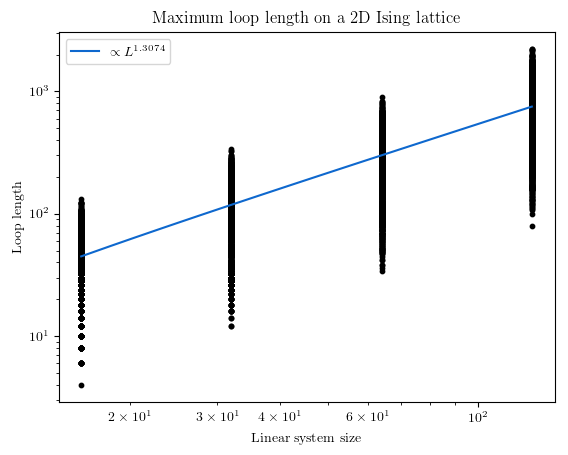
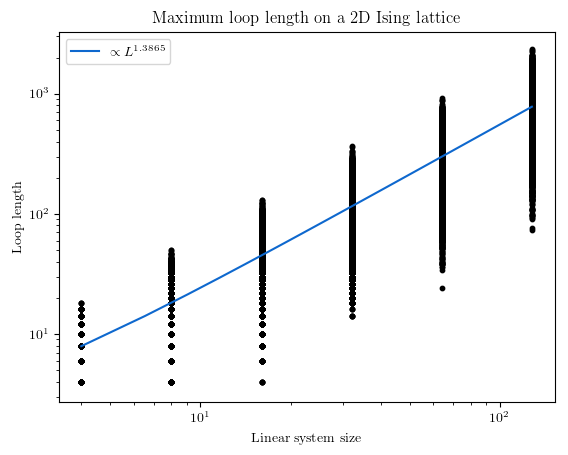
Added plot_length_distribution

diff --git a/cpp/pyplot/plot_length_distribution.py b/cpp/pyplot/plot_length_distribution.py
@@ -1,0 +1,118 @@
+'''
+Brief:               Plot length distribution
+
+File name:           plot_sizes.py
+Author:              Simon Rydell
+Date created:        Aug 30, 2018
+Python Version:      3.7
+'''
+
+import re
+import numpy as np
+import matplotlib.pyplot as plt
+from matplotlib import rc
+
+rc('font', **{'family': 'serif', 'serif': ['DejaVu Sans']})
+rc('text', usetex=True)
+
+def process_file(filename):
+    """Go through filename and split it into arrays
+       Assumes that the file is organized as:
+
+       L=<system_linear_size>:
+       <worm_size0> <worm_size1> ...
+       ...
+
+    :filename: String - Valid path to a file containing the abow
+    :returns: dict - {<system_linear_size>:
+                      [<worm_size0>, <worm_size1>, ...], ...}
+    """
+    out_dict = {}
+    with open(filename) as data_file:
+        # Keep track of the system size we are on
+        current_system_size = 0
+        for line in data_file.readlines():
+            # Check if line is describing system size or box sizes
+
+            # Check system size
+            # Match 'L=<one or more digits>:'
+            system_size_match = re.match(r"L=(\d+):", line)
+            # If it matched
+            if system_size_match:
+                system_linear_size = float(system_size_match.group(1))
+                if system_linear_size not in out_dict:
+                    # Create a new array for this system size
+                    out_dict[system_linear_size] = []
+
+                current_system_size = system_linear_size
+                # No need to process further, we found a match
+                continue
+
+            # Check if there are loop sizes
+            # At least one loop size
+            loop_size_match = re.match(r"(\d+)", line)
+            if loop_size_match:
+                loops = [float(l) for l in line.split()]
+                # Save the data under the current system size
+                for l in loops:
+                    out_dict[current_system_size].append(l)
+    return out_dict
+
+def clean_processed_data(data_dict, size_of_interest, exclude_first):
+    """Modify data_dict to remove the data points where
+       <system_linear_size> != size_of_interest
+       <worm_length> < exclude_first
+
+    :data_dict: dict - {<system_linear_size>:
+                       [<worm_length0>, <worm_length0>, ...], ...}
+    :size_of_interest: Int - Remove every system_linear_size except this one
+    :returns: None
+    """
+    sizes_to_remove = [size for size in data_dict if size != size_of_interest]
+    for size in sizes_to_remove:
+        data_dict.pop(size)
+
+    data_dict[size_of_interest] = [wl for wl in data_dict[size_of_interest] if wl > exclude_first]
+
+def plot_setup():
+    """Set axis labels and such
+    :returns: TODO
+    """
+    plt.xlabel("Loop size")
+    plt.ylabel("Counts")
+    plt.title(rf"Worm distribution for ${128}^2$ Ising lattice")
+
+def plot_histogram(data_dict, bin_size=16):
+    """Plot histogram over worm distribution
+
+    :data_dict: dict
+    :bin_size: int
+    :returns: None
+    """
+    for system_linear_size in data_dict:
+        bins = []
+        for i in range(0, int(max(data_dict[system_linear_size])), bin_size):
+            bins.append(i)
+        plt.hist(data_dict[system_linear_size], log=True, bins=bins, label="Loop distribution")
+
+def plot_line(system_size, dimension, height):
+    """Plot a line at where no loop lengths can be longer than
+
+    :system_size: int
+    :dimension: int
+    :returns: None
+    """
+    num_sites = pow(system_size, dimension)
+    plt.plot([num_sites, num_sites], [0, height])
+
+if __name__ == '__main__':
+    simulation_data = process_file("./data/worm_distribution.txt")
+
+    size_to_plot = 128
+    clean_processed_data(simulation_data, size_to_plot, exclude_first=150)
+
+    plot_setup()
+    plot_histogram(simulation_data, bin_size=16)
+    # plot_line(size_to_plot, dimension=2,\
+    #         height=simulation_data[size_to_plot].count(min(simulation_data[size_to_plot])))
+    plt.show()

diff --git a/cpp/pyplot/plot_max_lengths.py b/cpp/pyplot/plot_max_lengths.py
@@ -140,7 +140,7 @@ if __name__ == '__main__':
 
     plt.legend()
 
-    savefig=False
+    savefig=True
     if savefig:
         plt.savefig(f"./plots/maximum_loop_length_for_2D_Ising.png",\
                     bbox_inches='tight')

diff --git a/cpp/pyplot/plot_susceptibility.py b/cpp/pyplot/plot_susceptibility.py
@@ -204,7 +204,7 @@ if __name__ == '__main__':
 
     plt.legend()
 
-    savefig = True
+    savefig = False
     if savefig:
         plt.savefig(f"./plots/susceptibility128x128Ising.png",\
                     bbox_inches='tight')
